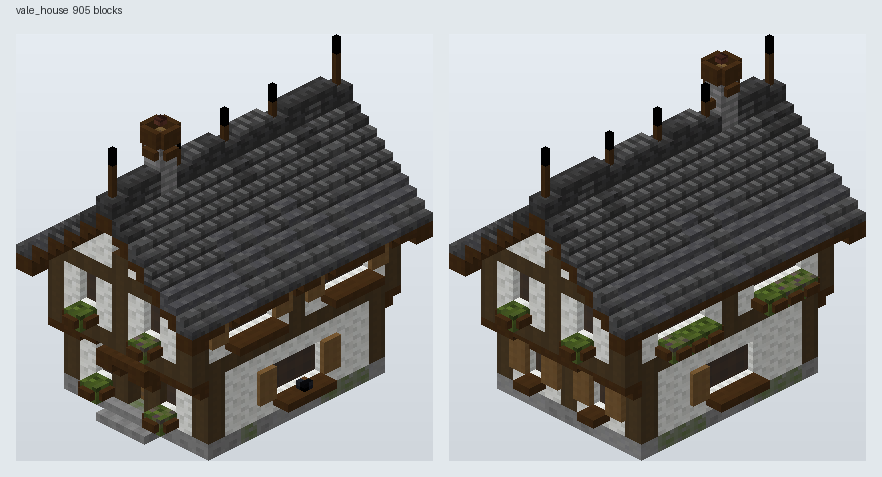
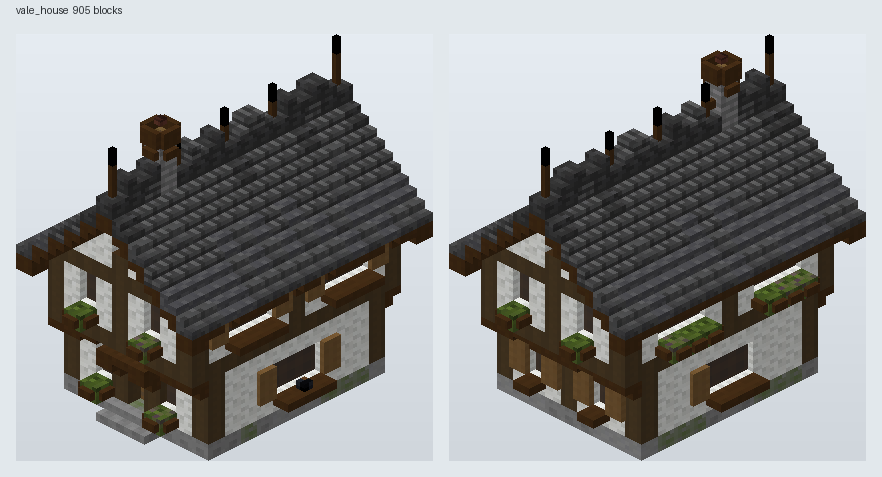
minecraft-builder: back-to-back stair ridge cap by default
Claude-Session: https://claude.ai/code/session_01A4uWhX18xXyhyv2GR6HyHU

diff --git a/.claude/skills/minecraft-builder/scripts/parts.py b/.claude/skills/minecraft-builder/scripts/parts.py
@@ -308,8 +308,8 @@ def roof_field(rect, kind, ridge, overhang, verge, pitch, base):
 
 def build_roofs(ctx, roofs, style, chimneys=()):
     """Combine every roof's height field (higher roof wins, 06 'connecting roofs') and place the surface:
-    stairs facing uphill, inner corners in valleys, outer corners on hips, a full block + bottom slab on
-    the ridge, verge stairs with a barge board under, an eave row, a trim block at each verge corner."""
+    stairs facing uphill, inner corners in valleys, outer corners on hips, a full block on the ridge capped
+    with back-to-back stairs (Mateo 2026-11-12; style "ridge_cap": "slab" for the old slab row), verge stairs with a barge board under, an eave row, a trim block at each verge corner."""
     if not roofs: return
     H, info = {}, {}
     for F, r in roofs:
@@ -329,7 +329,15 @@ def build_roofs(ctx, roofs, style, chimneys=()):
                 ctx.set(x, row, z, S, "stairs", mat, facing=f, half="bottom", corner="outer_left" if g == LEFT[f] else "outer_right")
             else:        # ridge: full block with a bottom slab on top (06 step 3)
                 ctx.set(x, row, z, S, "full", mat)
-                ctx.set(x, row + 1, z, S, "slab", r.get("cap", mat), half="bottom")
+                if r.get("ridge_cap", style.get("ridge_cap", "stairs")) == "slab":
+                    ctx.set(x, row + 1, z, S, "slab", r.get("cap", mat), half="bottom")
+                else:    # back-to-back stairs along the spine (Mateo 2026-11-12): pairs with their tall backs touching
+                    along = x if r["ridge"] == "x" else z
+                    f = ("e" if along % 2 == 0 else "w") if r["ridge"] == "x" else ("s" if along % 2 == 0 else "n")
+                    for g in (("n", "s") if r["ridge"] == "x" else ("w", "e")):   # two-row ridge: the pair sits across
+                        dx, dz = DIRS[g]
+                        if H.get((x + dx, z + dz)) == row: f = g
+                    ctx.set(x, row + 1, z, S, "stairs", r.get("cap", mat), facing=f, half="bottom")
                 if pitch == 2: ctx.set(x, row - 1, z, S, "full", mat)
             continue
         f = hi[0]

diff --git a/.claude/skills/minecraft-builder/reference/parts.md b/.claude/skills/minecraft-builder/reference/parts.md
@@ -129,7 +129,7 @@ stair on a full block), `overhang` 1, `verge` 1, `cap` (ridge slab material).
 
 How it is built: a height field over the footprint plus overhang; every cell takes a stair facing uphill;
 inner-corner stairs where two higher sides meet (valleys), outer-corner stairs on hip lines; the ridge is a
-full block with a bottom slab on top. Edges open to the sky get: barge boards (upside-down trim stairs under
+full block capped with back-to-back stairs along the spine, tall backs touching in pairs, so the crest reads as a row of small peaks between the spikes (Mateo 2026-11-12; on a two-row ridge each pair sits across the spine; style `"ridge_cap": "slab"` for the old slab row). Edges open to the sky get: barge boards (upside-down trim stairs under
 every verge stair), an eave row of upside-down trim stairs under the overhang, and Mateo's trim-wood corner
 block under the lowest verge stair at every corner. Gable triangles fill after the surface with a centre
 post (timber) and an attic window when the gable is 5 or more tall. Roof colour ladders run eaves to
